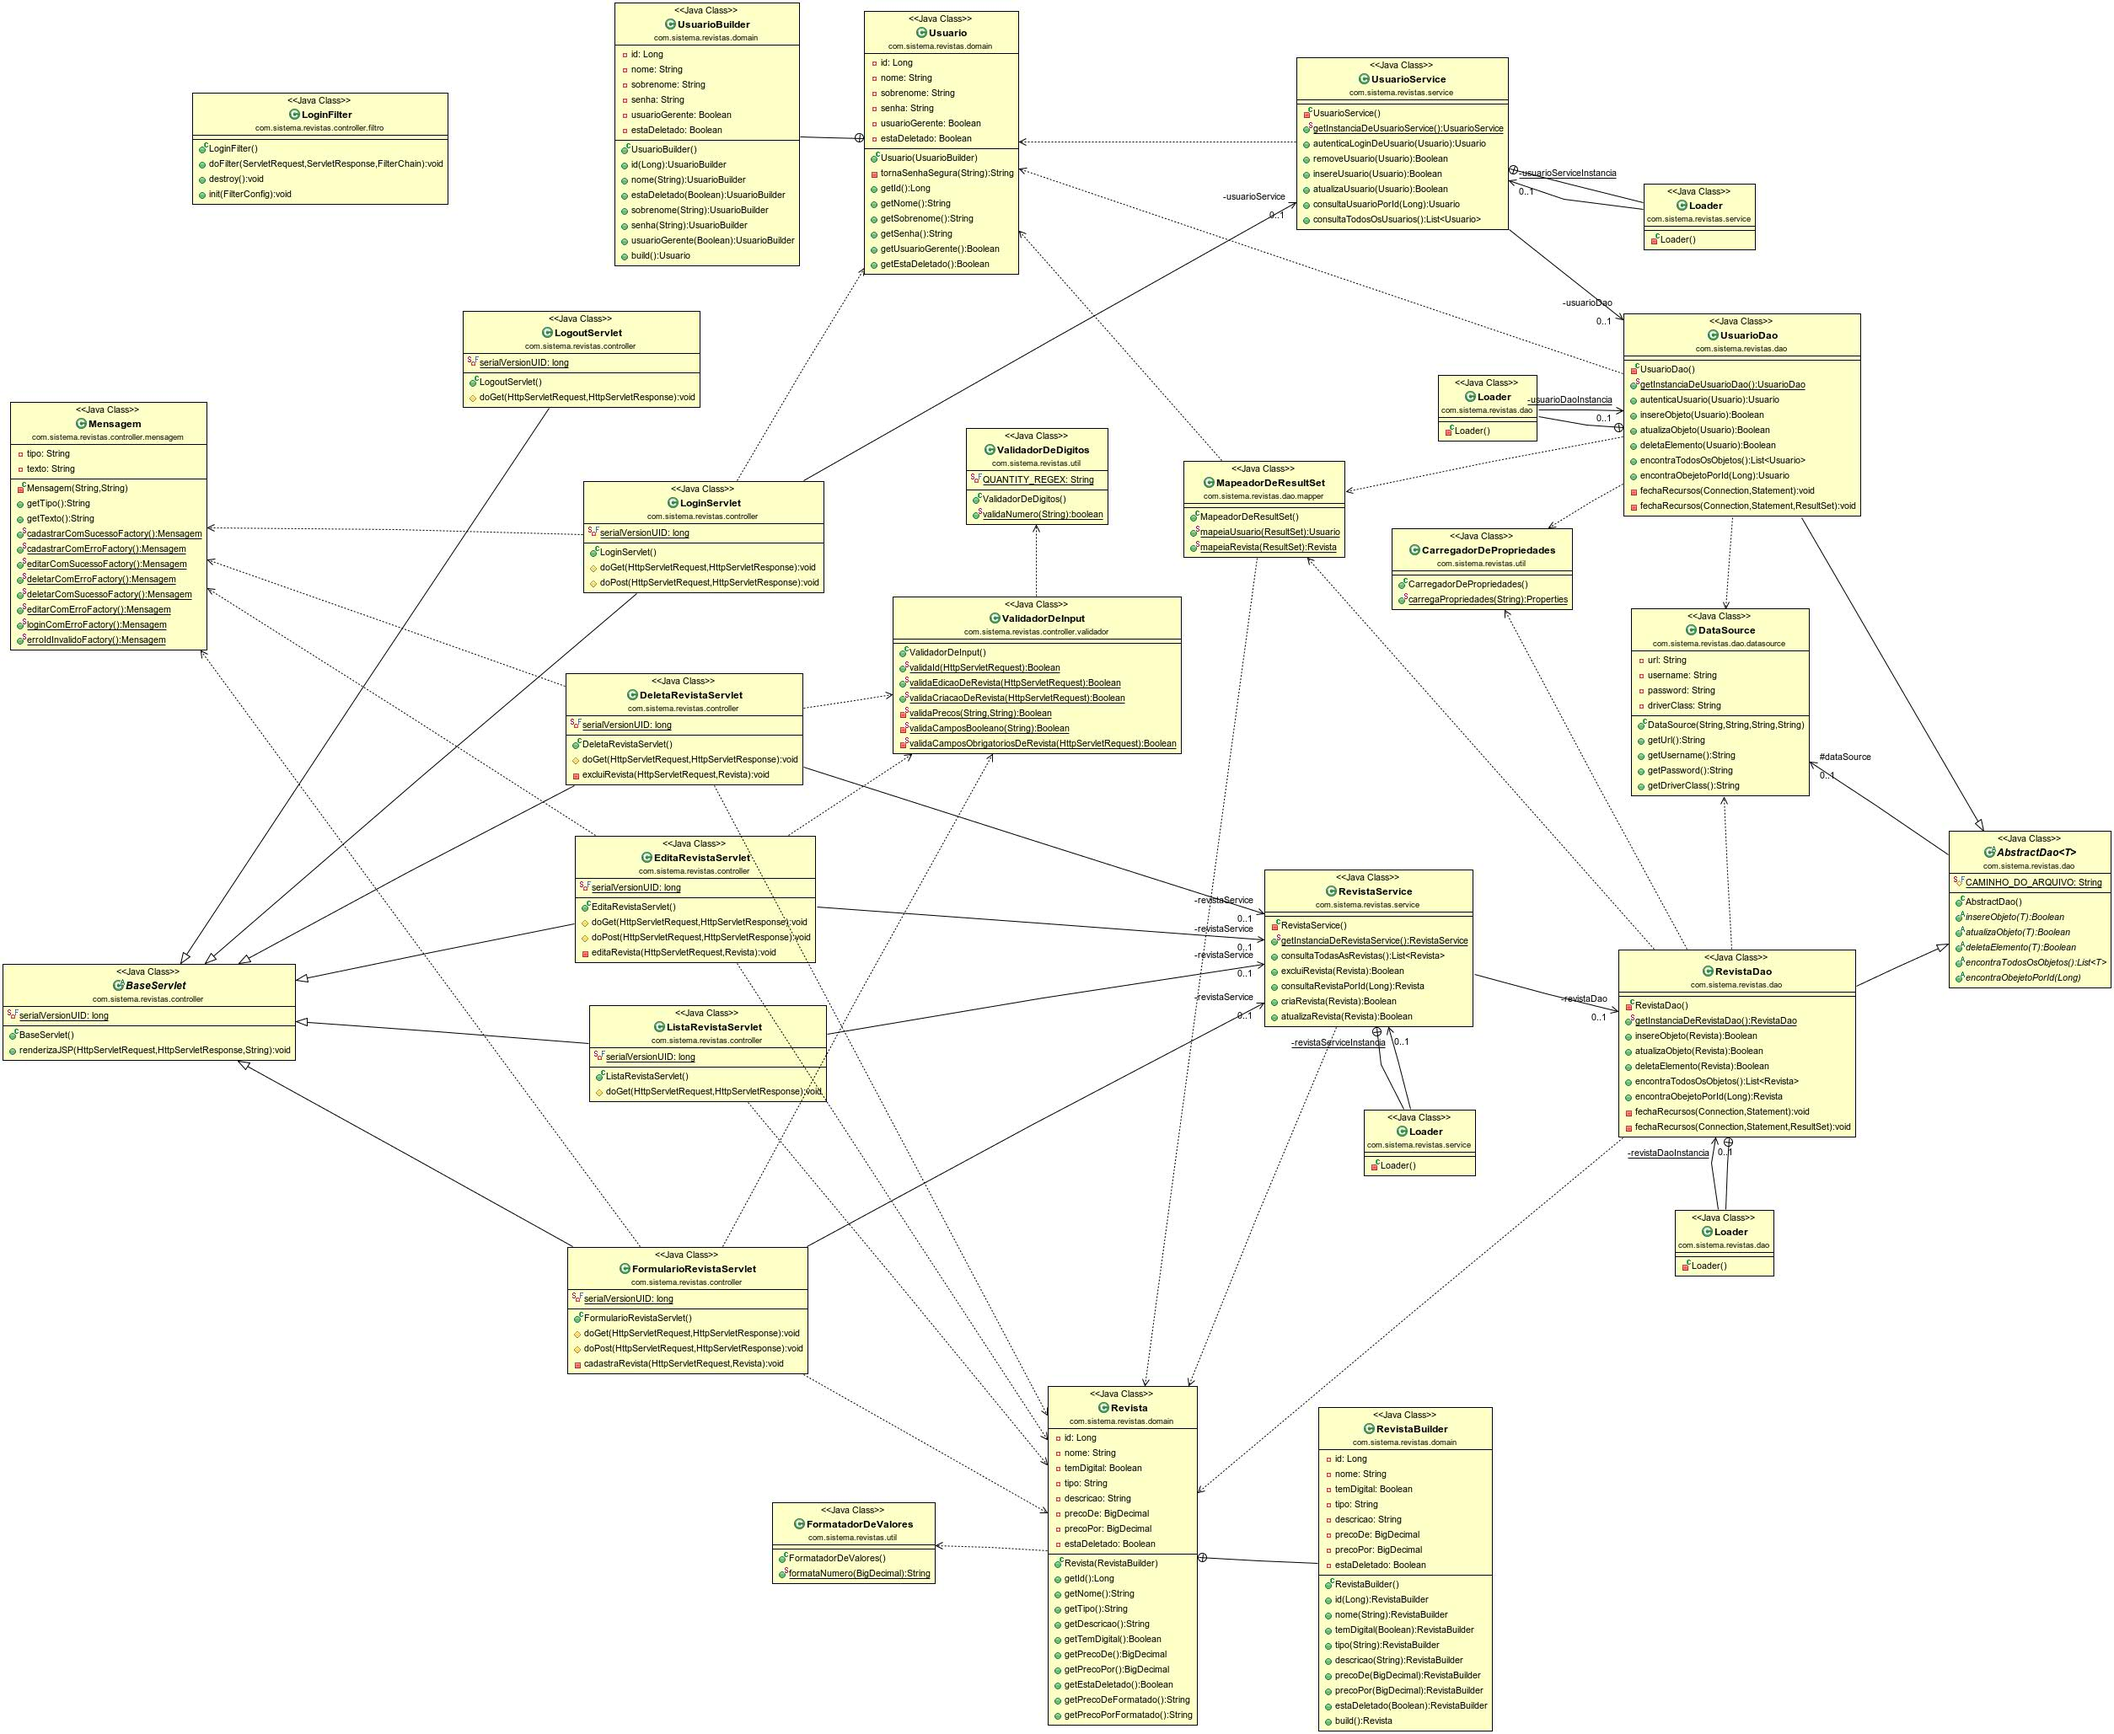
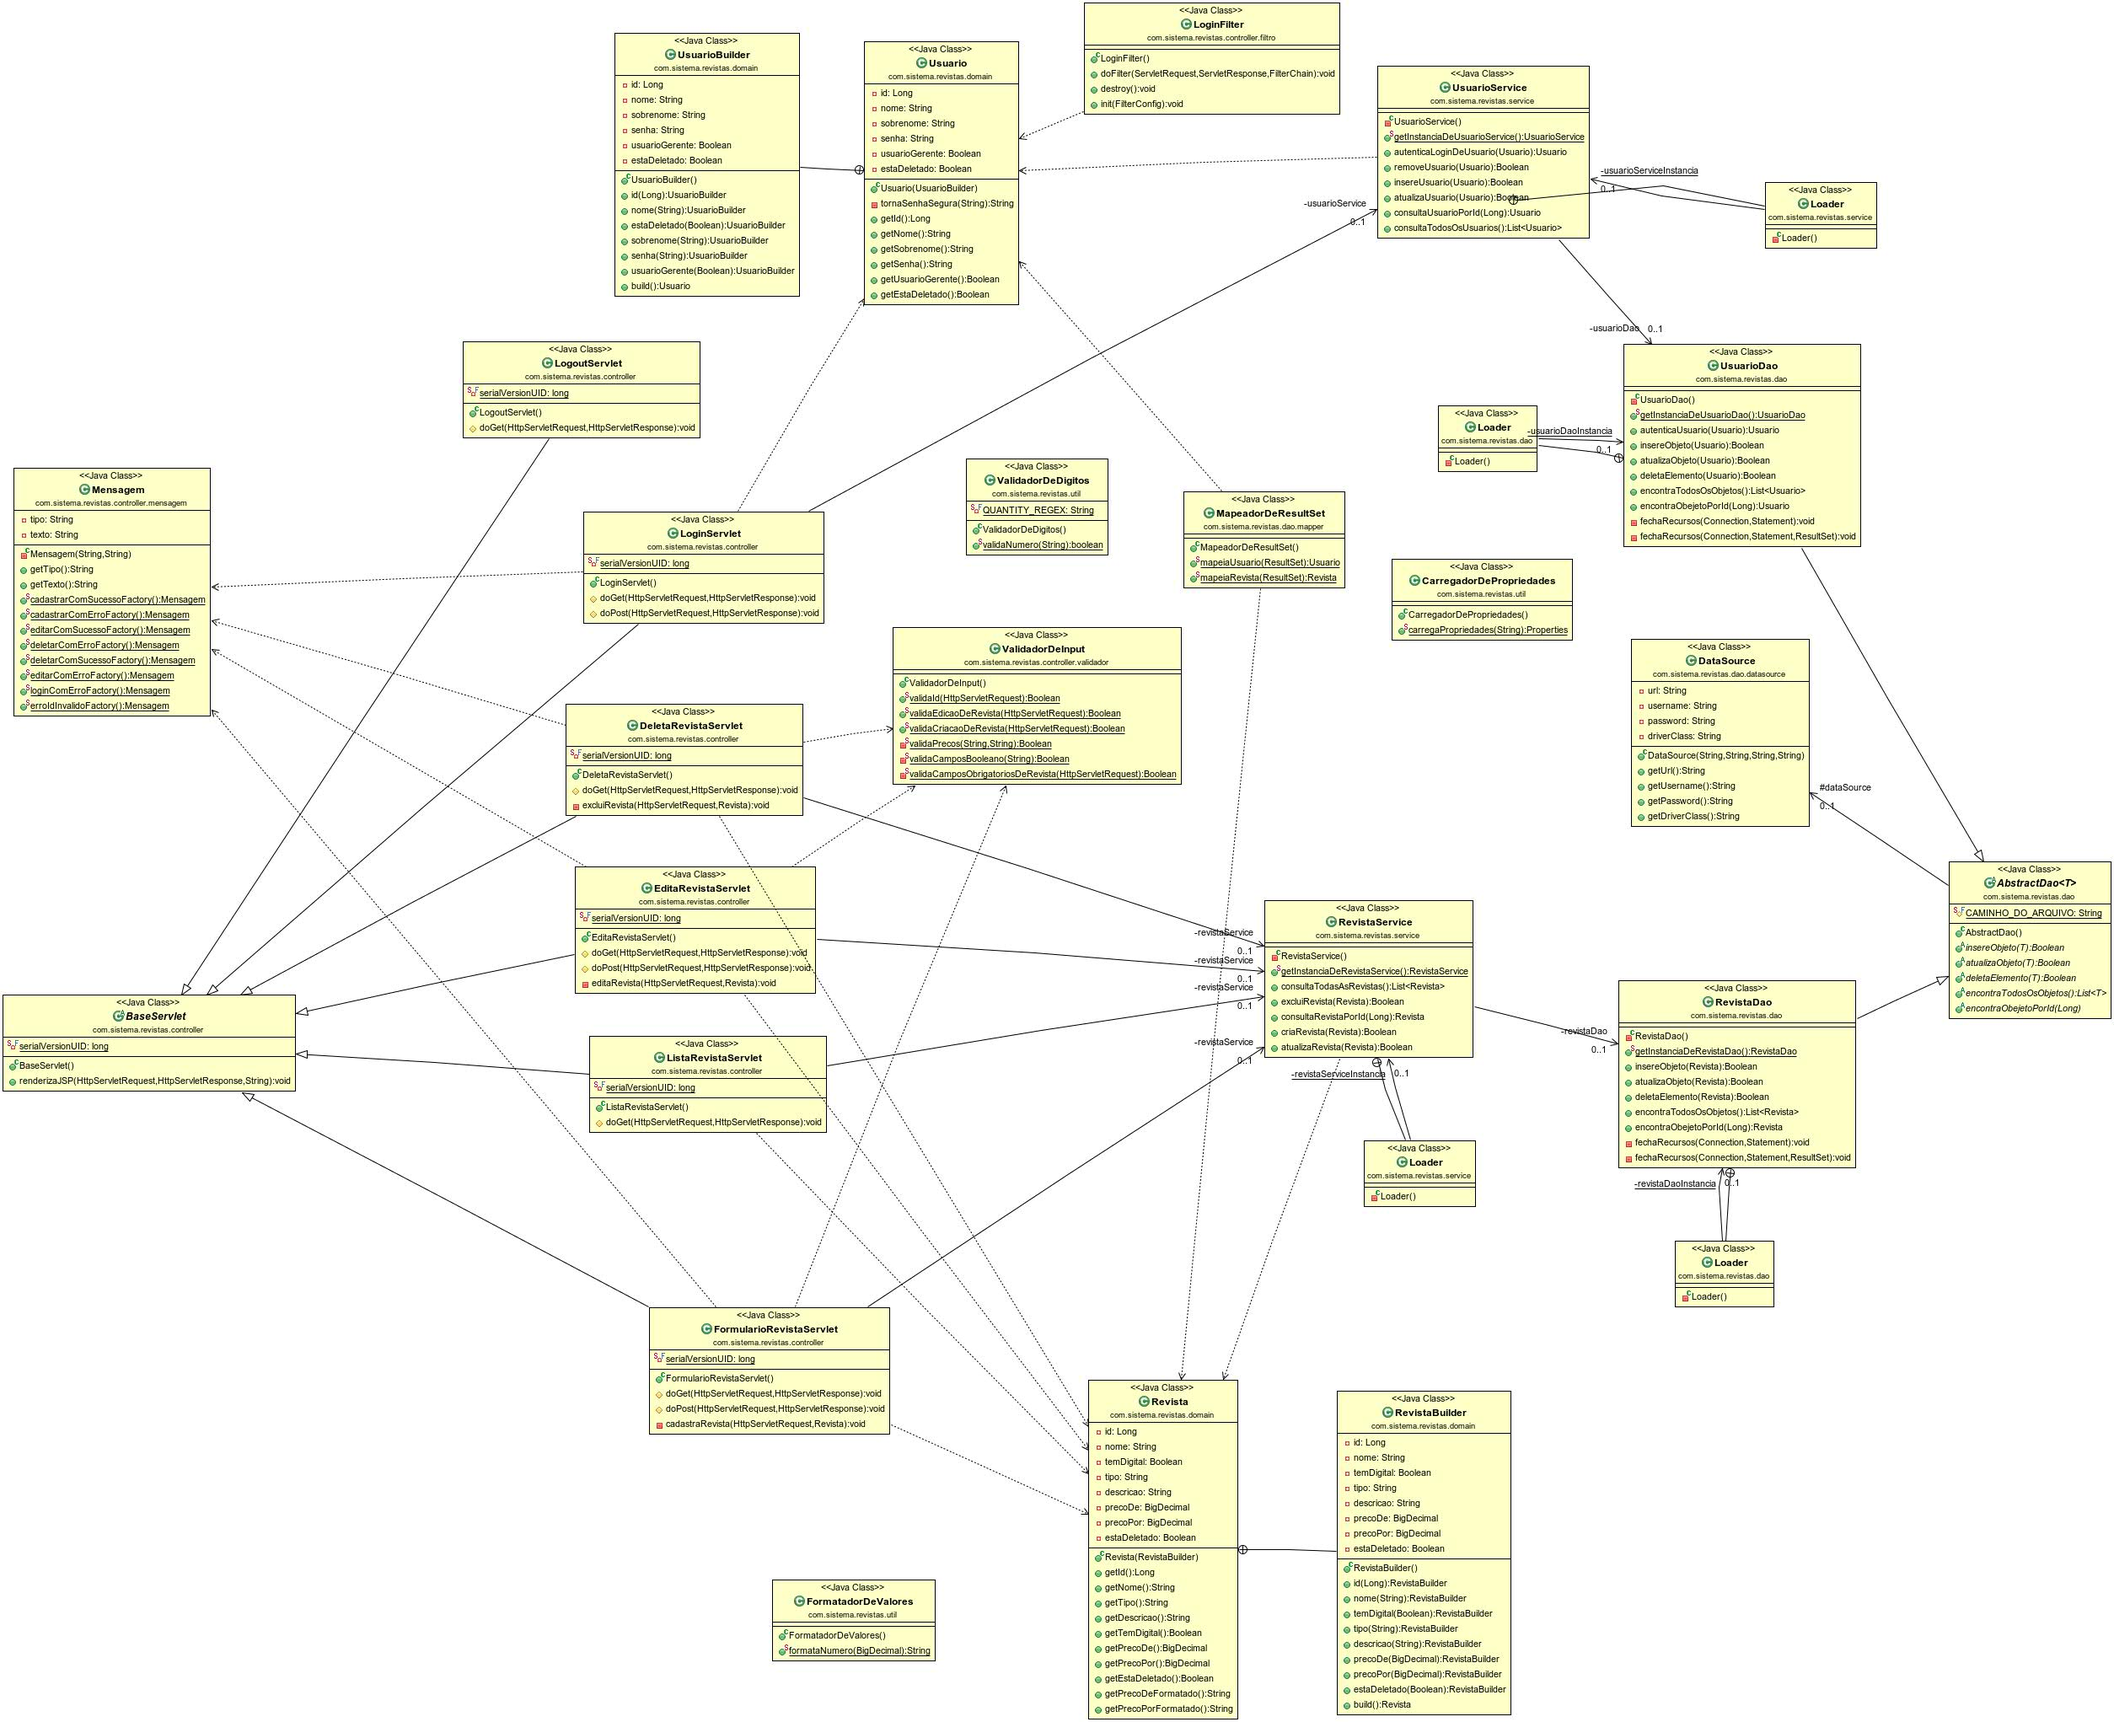
Refatoração na classe LoginFilter e no diagrama.

diff --git a/ES1Project/src/main/java/com/sistema/revistas/controller/filtro/LoginFilter.java b/ES1Project/src/main/java/com/sistema/revistas/controller/filtro/LoginFilter.java
@@ -9,6 +9,7 @@ import javax.servlet.ServletRequest;
 import javax.servlet.ServletResponse;
 import javax.servlet.http.HttpServletRequest;
 import javax.servlet.http.HttpServletResponse;
+import com.sistema.revistas.domain.Usuario;
 
 public class LoginFilter implements Filter {
 
@@ -20,7 +21,9 @@ public class LoginFilter implements Filter {
 		HttpServletRequest httpRequest = (HttpServletRequest) request;
 		HttpServletResponse httpResponse = (HttpServletResponse) response;
 		
-		if (httpRequest.getSession().getAttribute("usuario") == null) {
+		Usuario usuario = (Usuario) httpRequest.getSession().getAttribute("usuario");
+		
+		if (usuario == null) {
 			httpResponse.sendRedirect("http://localhost:8080/ES1Project/login");
 		} else {
 			chain.doFilter(request, response);
